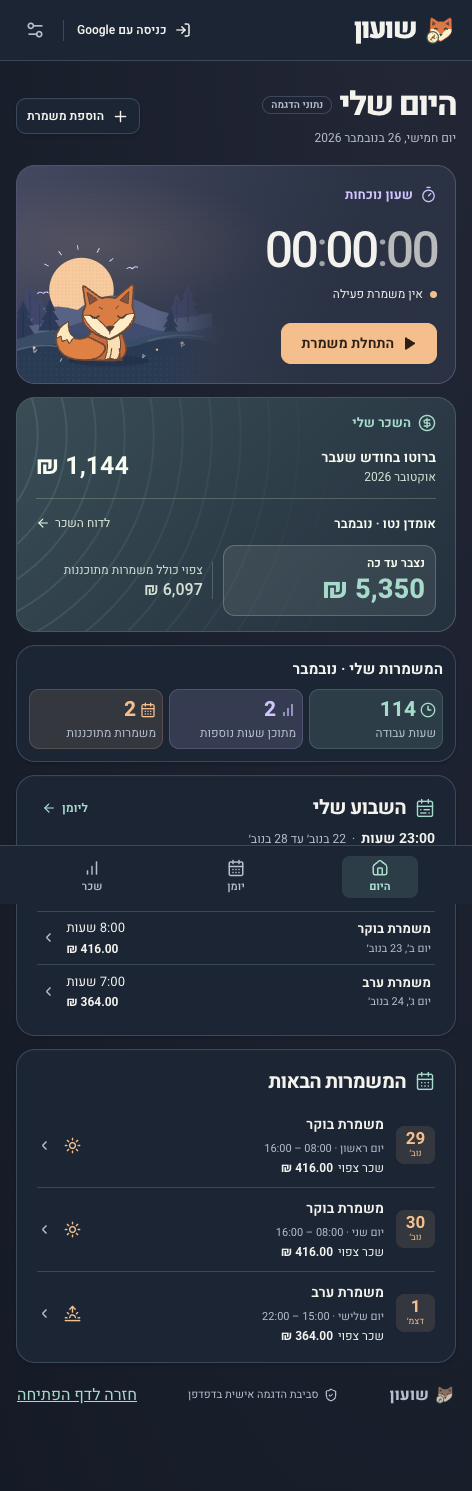
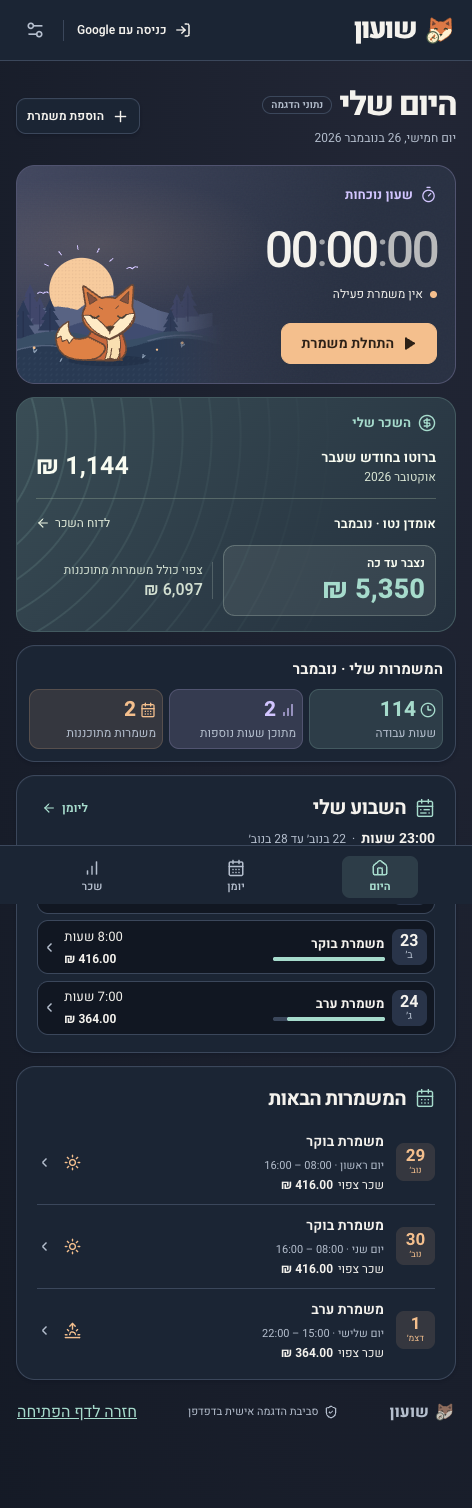
Visualize shift duration in weekly cards

diff --git a/src/style.css b/src/style.css
@@ -802,37 +802,76 @@ button:not(:disabled):active {
   font-size: 14px;
 }
 .week-shifts {
+  display: grid;
+  gap: 0.4rem;
   list-style: none;
-  margin: 0.5rem 0 0;
+  margin: 0.65rem 0 0;
   padding: 0;
 }
-.week-shifts li {
-  border-top: 1px solid var(--line);
-}
 .week-shift {
+  --week-shift-tone: var(--green);
   display: grid;
-  grid-template-columns: minmax(0, 1fr) auto 15px;
+  grid-template-columns: auto minmax(0, 1fr) auto 12px;
   align-items: center;
-  gap: 0.65rem;
+  gap: clamp(0.35rem, 1.5vw, 0.65rem);
   width: 100%;
-  min-height: 44px;
-  padding: 0.4rem 0.25rem;
-  border-radius: 0.5rem;
-  background: transparent;
+  min-height: 48px;
+  padding: 0.35rem 0.45rem;
+  border: 1px solid var(--line);
+  border-radius: 0.7rem;
+  background: var(--paper);
   color: var(--ink);
   text-align: start;
+  cursor: pointer;
+}
+.week-shift[data-status='planned'] {
+  --week-shift-tone: var(--accent);
+}
+.week-shift[data-status='active'] {
+  --week-shift-tone: var(--clock-active);
 }
 .week-shift:hover {
+  border-color: var(--week-shift-tone);
   background: var(--tint);
+}
+.week-shift-date {
+  display: grid;
+  justify-items: center;
+  align-content: center;
+  inline-size: 2.2rem;
+  min-block-size: 2.25rem;
+  border-radius: 0.5rem;
+  background: var(--tint);
+  color: var(--ink);
+  line-height: 1.05;
+}
+.week-shift-date strong {
+  font-size: 1rem;
+}
+.week-shift-date small {
+  font-size: 0.65rem;
 }
 .week-shift-name,
 .week-shift-totals {
   display: grid;
-  gap: 0.1rem;
+  gap: 0.18rem;
   font-size: 0.82rem;
 }
 .week-shift-name {
   overflow-wrap: anywhere;
+}
+.week-shift-track {
+  display: block;
+  height: 4px;
+  width: min(100%, 7rem);
+  border-radius: 999px;
+  background: var(--line);
+}
+.week-shift-track span {
+  display: block;
+  height: 100%;
+  border-radius: inherit;
+  background: var(--week-shift-tone);
 }
 .week-shift-totals {
   justify-items: end;
@@ -840,6 +879,9 @@ button:not(:disabled):active {
 }
 .week-shift small,
 .week-shift > svg,
+.week-empty {
+  color: var(--muted);
+}
 .week-empty {
   color: var(--muted);
 }

diff --git a/src/components/Dashboard.tsx b/src/components/Dashboard.tsx
@@ -140,6 +140,7 @@ function Weekly({ today, shifts, shiftPayById, onCalendar, onShift }: Pick<Props
   }, [hasActive])
   const rows = entries.map((entry) => ({ ...entry, millis: shiftWorkMillis(entry.shift, now) }))
   const total = rows.reduce((sum, row) => sum + row.millis, 0)
+  const longest = rows.reduce((max, row) => Math.max(max, row.millis), 1)
   const shortDate = { day: 'numeric', month: 'short' } as const
 
   return (
@@ -162,10 +163,17 @@ function Weekly({ today, shifts, shiftPayById, onCalendar, onShift }: Pick<Props
         <ul className="week-shifts" aria-label="משמרות השבוע">
           {rows.map(({ shift, date, millis }) => (
             <li key={shift.id}>
-              <button type="button" className="week-shift" onClick={() => onShift(shift)}>
+              <button type="button" className="week-shift" data-status={shift.status} onClick={() => onShift(shift)}>
+                <span className="week-shift-date">
+                  <span className="sr-only">{dateLabel(date, { weekday: 'long', ...shortDate })}</span>
+                  <strong aria-hidden="true">{Number(date.slice(-2))}</strong>
+                  <small aria-hidden="true">{dateLabel(date, { weekday: 'narrow' })}</small>
+                </span>
                 <span className="week-shift-name">
                   <strong>{shift.title || 'משמרת עבודה'}</strong>
-                  <small>{dateLabel(date, { weekday: 'short', ...shortDate })}</small>
+                  <span className="week-shift-track" aria-hidden="true">
+                    <span style={{ width: (millis / longest) * 100 + '%' }} />
+                  </span>
                 </span>
                 <span className="week-shift-totals">
                   <span><bdi dir="ltr">{formatWorkDuration(millis)}</bdi> שעות</span>

diff --git a/README.md b/README.md
@@ -16,7 +16,7 @@
 
 | מסך | מה עושים בו |
 | --- | --- |
-| **היום שלי** | מתחילים ומסיימים משמרת, רושמים הפסקות ורואים שעות ושכר לכל משמרת ברשימה השבועית. לכל משמרת מתוכננת מוצג השכר הצפוי. לצד השעון מופיעים הברוטו של החודש הקודם, אומדן הנטו שנצבר החודש, שמוצג בהבלטה, והתחזית לסופו. |
+| **היום שלי** | מתחילים ומסיימים משמרת, רושמים הפסקות ורואים ברשימה השבועית תאריך, פס אורך, שעות ושכר לכל משמרת. לכל משמרת מתוכננת מוצג השכר הצפוי. לצד השעון מופיעים הברוטו של החודש הקודם, אומדן הנטו שנצבר החודש, שמוצג בהבלטה, והתחזית לסופו. |
 | **יומן המשמרות** | בודקים מה עבדתם ומה מתוכנן, מזינים שעות בדיעבד ומחילים אותן שעות על כמה ימים. בכל שורה מופיע השכר למשמרת כולה או השכר הצפוי למשמרת מתוכננת. משמרת שחוצה חצות מופיעה ביומן ביום שבו התחילה, עם כל שעות העבודה והשכר שלה. בטופס המשמרת מוצגות כברירת מחדל שעות ידניות. אפשר לעבור לבחירה מתבנית ולהוסיף הערה ישירות. בעריכת משמרת קיימת אפשר למחוק אותה אחרי אישור מפורש. |
 | **השכר שלי** | בוחרים חודש ומשווים בין מה שנצבר בפועל לבין התחזית הכוללת משמרות מתוכננות. הדוח מפרט ברוטו, נטו משוער, ניכויים ושעות נוספות. אפשר להזין נתוני תלוש לחודש שנבחר, כולל חודשים קודמים. |
 | **הגדרות** | מעדכנים את שאלון השכר, נקודות זיכוי, הגדרות פנסיה, תעריפים לפי תאריך, ימי מנוחה וחגים ותבניות משמרת. לחיצה על תבנית פותחת עריכה של השם ושעות המשמרת בחלון קצר. אפשר לבחור מראה בהיר, כהה, מרווה או התאמה למכשיר. |
